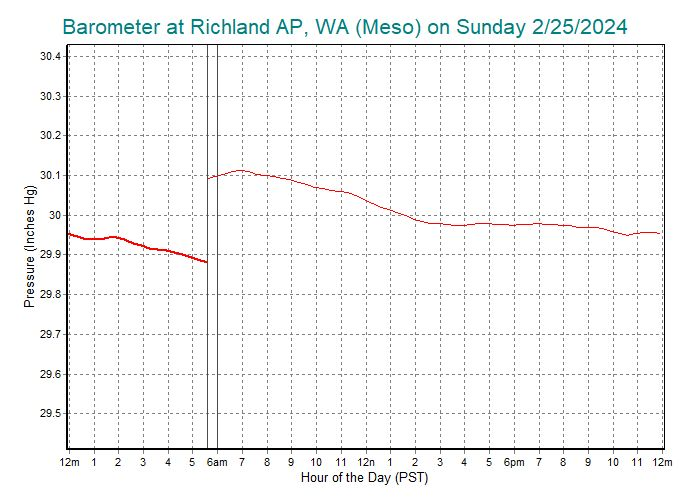
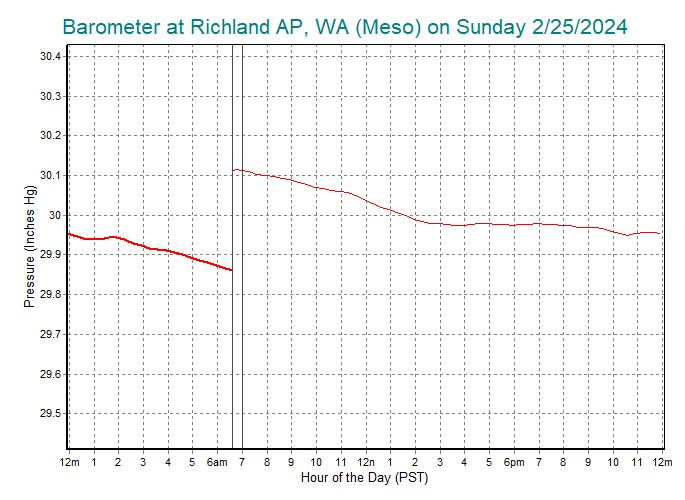
another update

Changed region(s): [[0.3066, 0.33, 0.3679, 0.36], [0.2759, 0.51, 0.3372, 0.54]]

diff --git a/charts.html b/charts.html
@@ -88,7 +88,7 @@
 	<p><b><font face="Arial" size="5">Samples from Rosy.asp</font></b></p>
    </div>
    <p><span>
-(24-hour charts updated Sunday, February 25, 2024 at 08:00AM Central).
+(24-hour charts updated Sunday, February 25, 2024 at 09:00AM Central).
    </span></p>
    <p>The orginal ASP page is named Rosy, a nickname windsurfers from the Tri-Cities gave Roosevelt, a sailing site on the east end of the Columbia River gorge.</p>
 	<p>This first pair of sample charts, wind and temperature, is updated every 

diff --git a/charts_input.html b/charts_input.html
@@ -88,7 +88,7 @@
 	<p><b><font face="Arial" size="5">Samples from Rosy.asp</font></b></p>
    </div>
    <p><span>
-(24-hour charts updated Sunday, February 25, 2024 at 08:00AM Central).
+(24-hour charts updated Sunday, February 25, 2024 at 09:00AM Central).
    </span></p>
    <p>The orginal ASP page is named Rosy, a nickname windsurfers from the Tri-Cities gave Roosevelt, a sailing site on the east end of the Columbia River gorge.</p>
 	<p>This first pair of sample charts, wind and temperature, is updated every 
